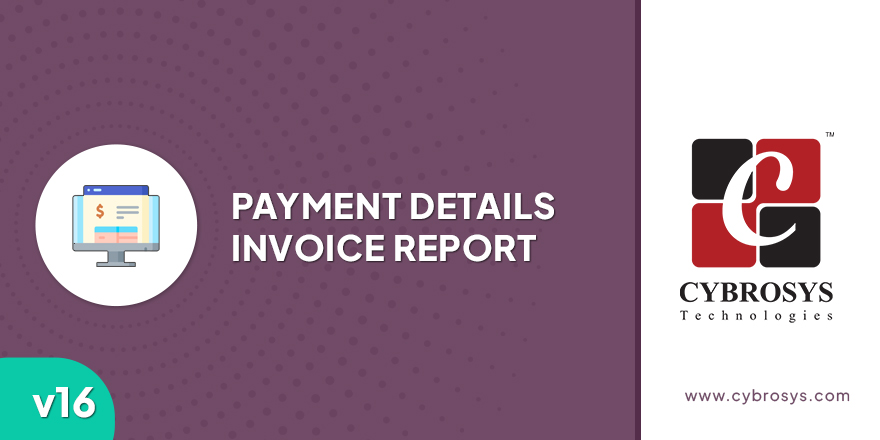
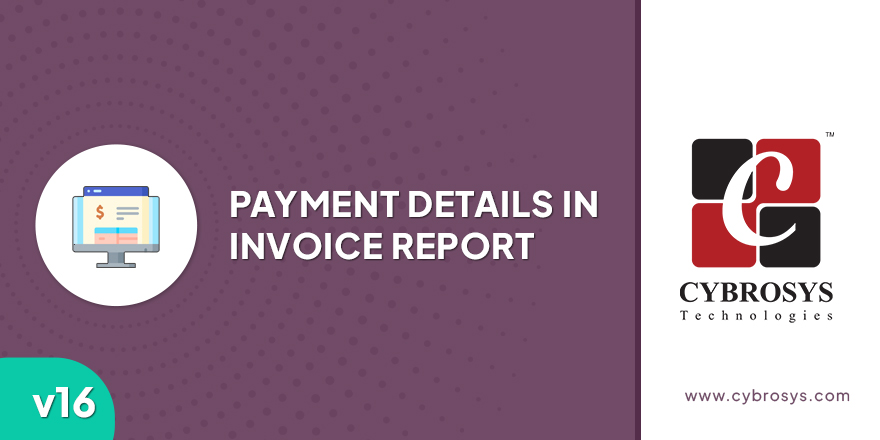
Aug 08: [FIX] Bug Fixed  'payment_details_invoice_report'

Changed region(s): [[0.2455, 0.4136, 0.7057, 0.5023], [0.2455, 0.5318, 0.6136, 0.6205], [0.092, 0.4136, 0.1841, 0.6205]]

diff --git a/payment_details_invoice_report/__manifest__.py b/payment_details_invoice_report/__manifest__.py
@@ -20,7 +20,7 @@
 #
 ################################################################################
 {
-    'name': "Payment Details Invoice Report",
+    'name': "Payment Details In Invoice Report",
     'version': '16.0.1.0.0',
     'category': 'Accounting',
     'summary': 'All the payment details for the invoice can be added in the'

diff --git a/payment_details_invoice_report/README.rst b/payment_details_invoice_report/README.rst
@@ -2,8 +2,8 @@
     :target: http://www.gnu.org/licenses/lgpl-3.0-standalone.html
     :alt: License: LGPL-3
 
-Payment Details Invoice Report
-==============================
+Payment Details In Invoice Report
+=================================
 We can see the current payment state of the invoice in the report.
 We can add all the payment details of a particular invoice while
 print the invoice. Here we have the details such as Payment reference,

diff --git a/payment_details_invoice_report/doc/RELEASE_NOTES.md b/payment_details_invoice_report/doc/RELEASE_NOTES.md
@@ -1,6 +1,6 @@
 ## Module <payment_details_invoice_report>
 
-#### 20.07.2023
+#### 04.07.2023
 #### Version 16.0.1.0.0
 #### ADD
-- Initial commit for Payment Details Invoice Report
+- Initial commit for Payment Details In Invoice Report
